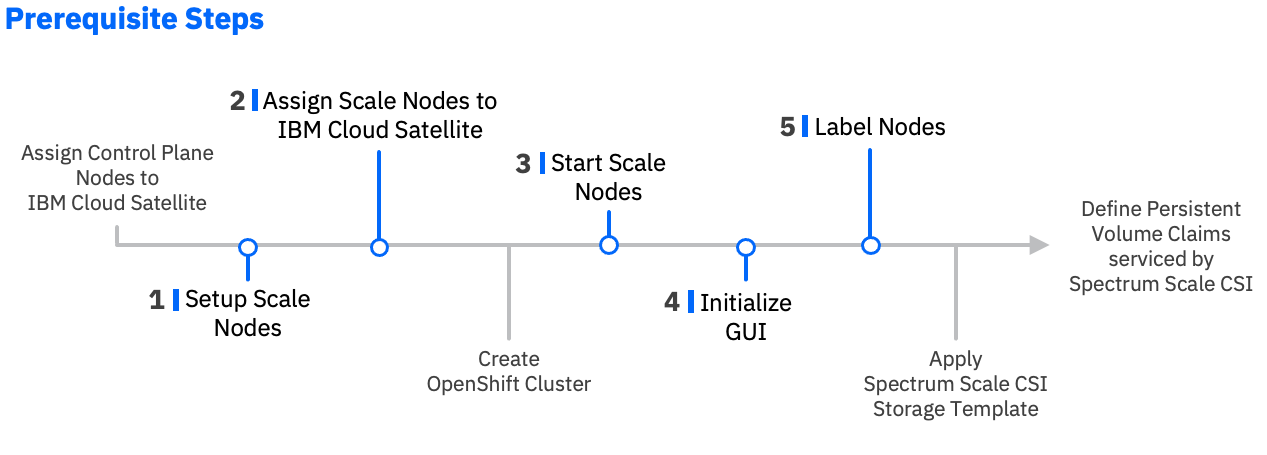
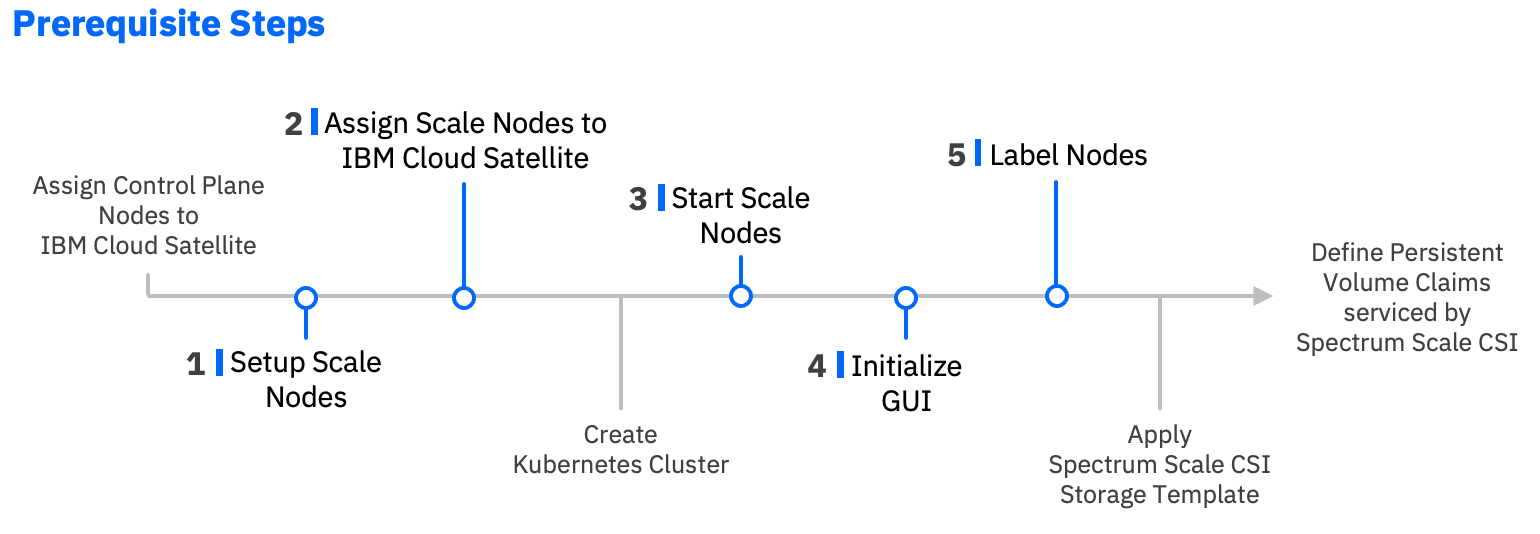
Replaced references to OpenShift with Kubernetes

diff --git a/config-templates/ibm/ess/1.1/README.md b/config-templates/ibm/ess/1.1/README.md
@@ -1,6 +1,6 @@
 # IBM Spectrum Scale Container Storage Interface Driver
 
-You can use the IBM Spectrum Scale Container Storage Interface (CSI) driver to create persistent storage for stateful applications running in OpenShift clusters.
+You can use the IBM Spectrum Scale Container Storage Interface (CSI) driver to create persistent storage for stateful applications running in Kubernetes clusters.
 
 The following features are available with IBM Spectrum Scale Container Storage Interface driver:
 
